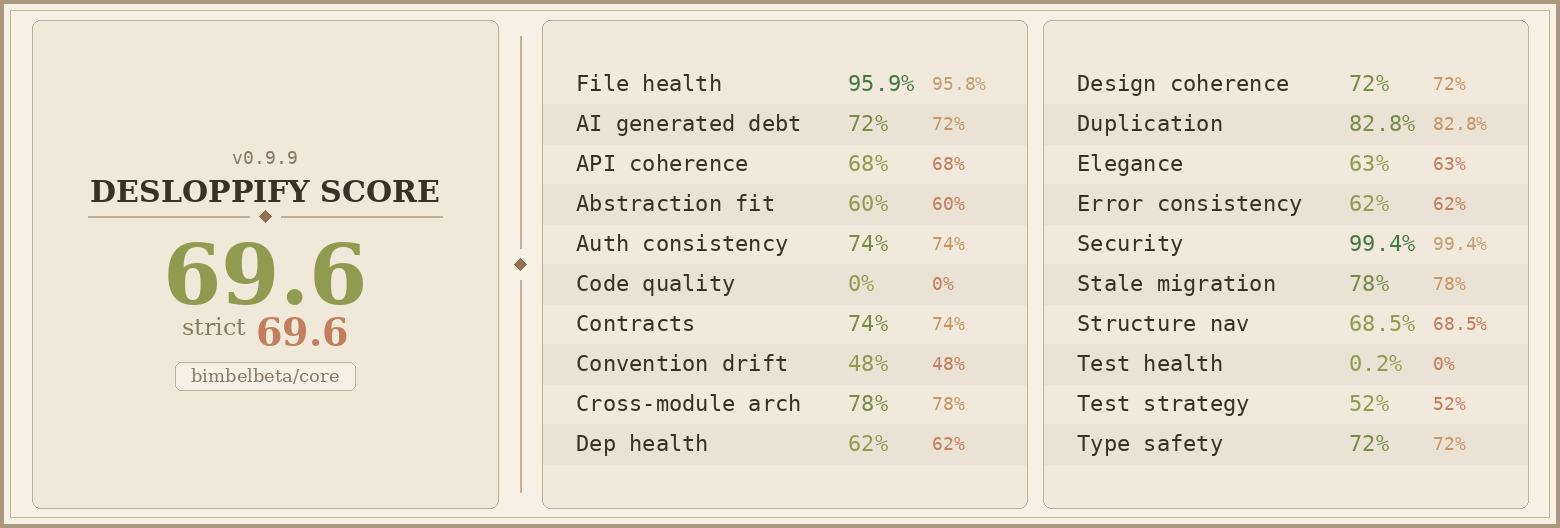
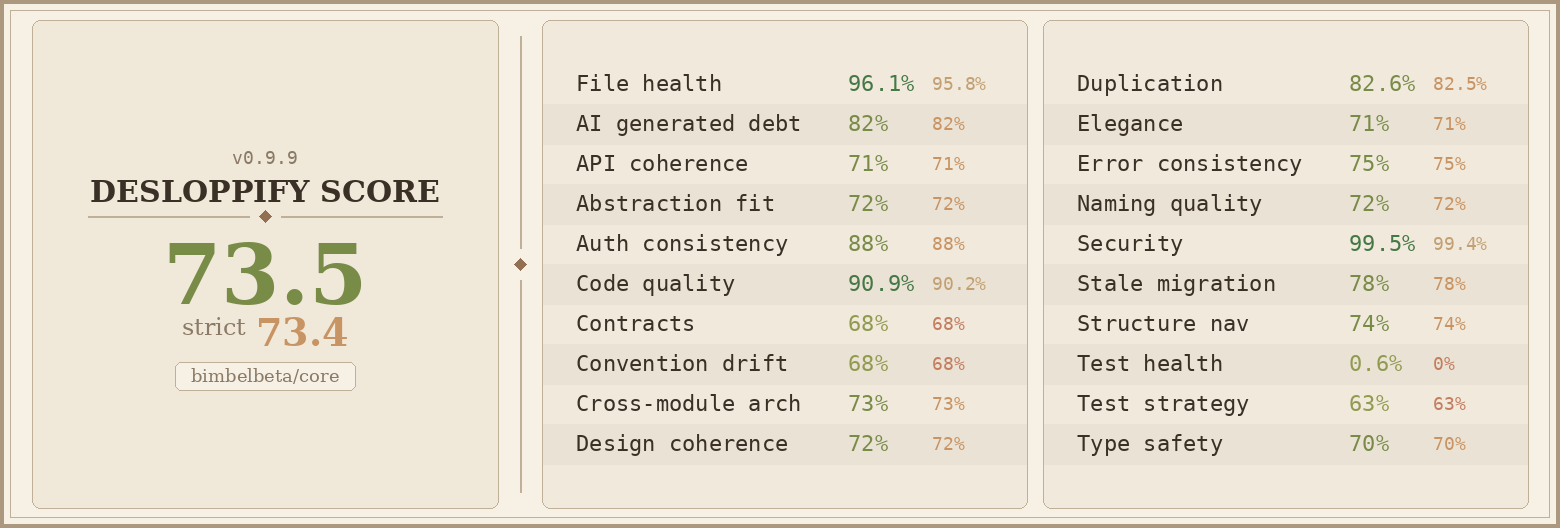
fix: dashboard off-by-one and review.ts undefined field access
- Fix dashboard.ts: lastMonthRevenue now uses lastMonthStart instead of
  getMonth() - 2 (was reporting revenue from wrong month)
- Fix review.ts: remove access to non-existent row.explanation field
  (DB has no explanation column, field always returned undefined)

diff --git a/packages/api/src/routers/admin/dashboard.ts b/packages/api/src/routers/admin/dashboard.ts
@@ -36,12 +36,7 @@ const stats = admin.admin.dashboard.stats.handler(async () => {
 	const lastMonthRevenue = await db
 		.select({ total: sql<number>`COALESCE(CAST(SUM(${transaction.grossAmount}) AS FLOAT), 0)` })
 		.from(transaction)
-		.where(
-			and(
-				eq(transaction.status, "success"),
-				gte(transaction.paidAt, new Date(now.getFullYear(), now.getMonth() - 2, 1)),
-			),
-		);
+		.where(and(eq(transaction.status, "success"), gte(transaction.paidAt, lastMonthStart)));
 
 	return {
 		totalUsers: currentUsers[0]?.count ?? 0,

diff --git a/packages/api/src/lib/calculate-score.saveScores.test.ts b/packages/api/src/lib/calculate-score.saveScores.test.ts
@@ -45,11 +45,6 @@ describe("saveScoresToDatabase", () => {
 	};
 
 	test("updates each subtest attempt with its score", async () => {
-		const trx = makeMockTrx() as unknown as Parameters<typeof saveScoresToDatabase>[2];
-		await saveScoresToDatabase(ATTEMPT_ID, scores, trx);
-
-		const subtestUpdates = (makeMockTrx() as MockTrx).updates;
-		// Re-run with a real capture
 		const capture = makeMockTrx();
 		await saveScoresToDatabase(ATTEMPT_ID, scores, capture as unknown as Parameters<typeof saveScoresToDatabase>[2]);
 

diff --git a/packages/api/src/routers/tryout/review.ts b/packages/api/src/routers/tryout/review.ts
@@ -37,7 +37,6 @@ export const review = authed.tryout.review.handler(async ({ input, context, erro
 			questionsMap.set(row.questionId, {
 				id: row.questionId,
 				content: readTiptapContent(row.questionContentJson, row.questionContent),
-				explanation: row.explanation,
 				discussion: canSeeDiscussion ? readTiptapContent(row.discussionJson, row.discussion) : null,
 				choices: [],
 				userAnswer: {
